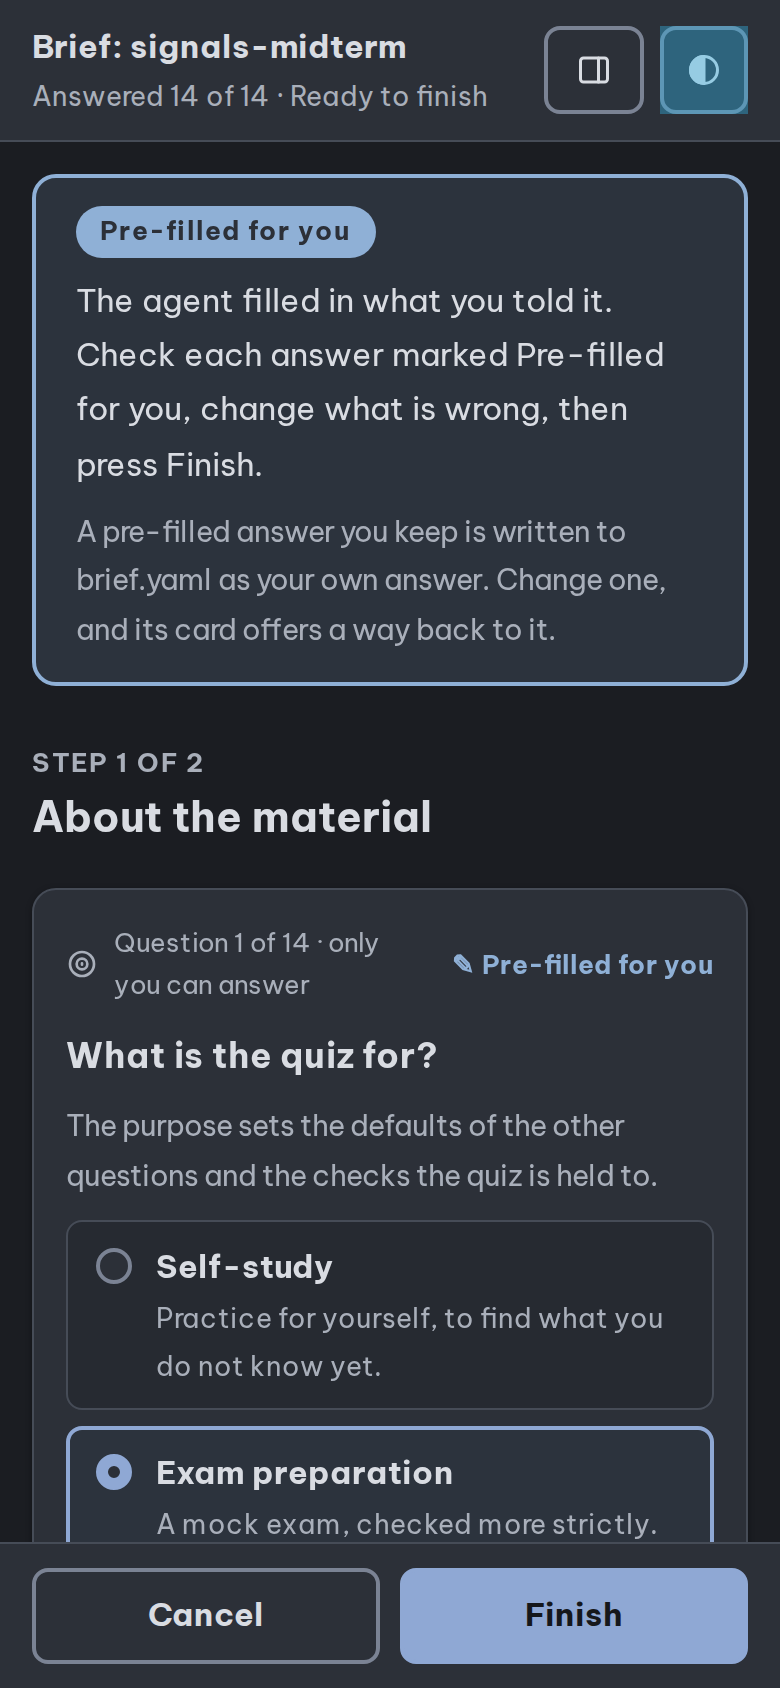
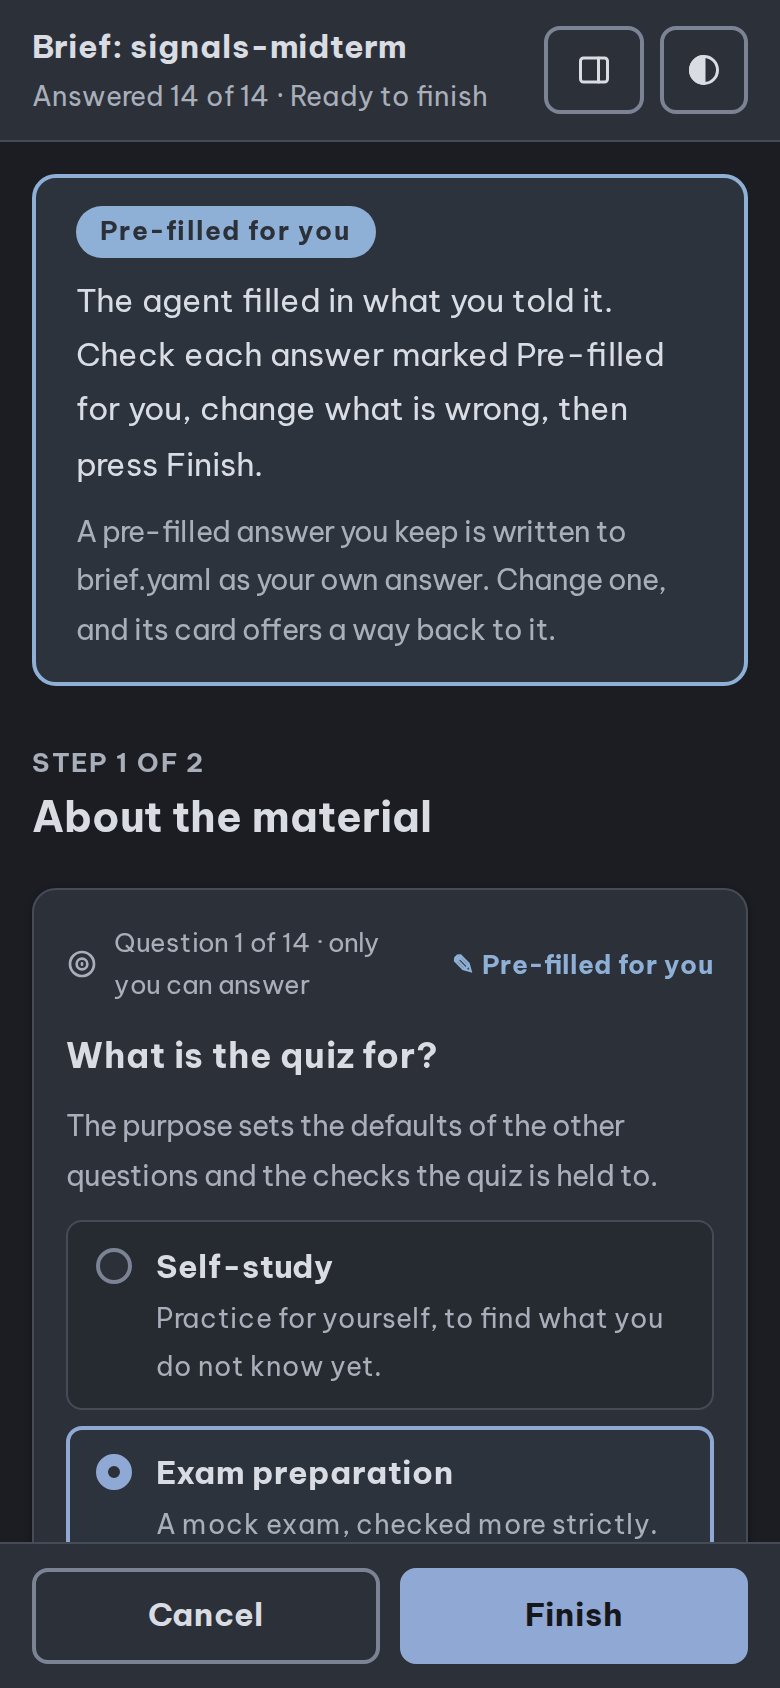
3h2 review: written; no tap highlight on the phone's buttons, four screens taken again

Changed region(s): [[0.8308, 0.0, 0.9846, 0.0924]]

diff --git a/src/brief-form/brief.css b/src/brief-form/brief.css
@@ -1224,6 +1224,11 @@
   }
 
   @media (max-width: 759px) {
+    /* as on the page: no grey or blue flash over a tapped button */
+    .bf button {
+      -webkit-tap-highlight-color: transparent;
+    }
+
     .bf-bar {
       gap: 12px;
       padding: 10px 16px;

diff --git a/docs/plans/STEP3.md b/docs/plans/STEP3.md
@@ -36,7 +36,7 @@ As in step 2 ([archive/STEP2.md](archive/STEP2.md), Handoff): the planner writes
 | 3p2 G104, G106, `--web --grades` at 1280 px (G75, G102) | done, reviewed (2026-11-15), no gaps | `a433497`..`565bd9b`, review |
 | 3p3 the pre-filled form on a phone | done, reviewed (2026-11-15), no gaps | `9014690`..`2eea084`, review |
 | 3h `brief --web` at 1280 px | done, reviewed (2026-11-16), two board changes made in review; G116 decided | `10ea547`..`74a00a6`, review |
-| 3h2 G116, `brief --web` on a phone | built (2026-11-16), to review | `fd2d50a`..`0247344`, and the commit that holds this row |
+| 3h2 G116, `brief --web` on a phone | done, reviewed (2026-11-16), one fix in review, no gaps | `fd2d50a`..`0247344`, and the commit that holds this row |
 | 3z acceptance | last | |
 
 Each slice's review, and the owner's decisions on its gaps, are under its own section below (**Review**); the open gaps are in "Gaps" below, and the decided ones in [STEP3-GAPS.md](STEP3-GAPS.md), in number order.
@@ -52,7 +52,7 @@ How each slice got here is in its own **Review**; the table above is the summary
 1. **3r** (G101, then fullmark's own marking in the form, G83) is **built and reviewed** ("Slice 3r", its Review), the result badge fixed in review. **G103 is decided** and **3r2 is built and reviewed** ("Slice 3r2", its Review). **G104** (two unnamed `main` landmarks with the frame shown) is decided (2026-11-15), as recommended, and written into COMMANDS.md; it is 3p2's first task.
 2. **3q** (the replay's answer panel and badge, G94, G105) is **built and reviewed** ("Slice 3q", its Review). **G106** (the sample answer's code block, not focusable while it scrolls) is decided (2026-11-15), as recommended, and written into TECHNICAL_DESIGN.md; it is 3p2's first task, with G104.
 3. **3p2** (G104, G106, then `grade --web --grades` at 1280 px, G75, G102, G107 to G110) is **built and reviewed** ("Slice 3p2", its Review), with no new gap. **3p3** (the pre-filled form on a phone, G111) is **built and reviewed** ("Slice 3p3", its Review), with no new gap. Next: **the `brief --web` boards** (3v), then **3h**.
-4. **The `brief --web` boards** (3v) are **approved** (2026-11-16) and copied to `docs/mockup/boards/` (Brief and its ten wrappers). **3h** is **built and reviewed** ("Slice 3h", its Review); step 3's three-way byte-identity criterion passes. **G116** (`--timeout`, `--port` and `--no-open` without `--web`) is decided (2026-11-16), as recommended, and written into COMMANDS.md. **3h2**'s brief (G116, then the phone) is approved (2026-11-16), with G117 as recommended: next, hand it to an implementing agent. Then **3z**, acceptance.
+4. **The `brief --web` boards** (3v) are **approved** (2026-11-16) and copied to `docs/mockup/boards/` (Brief and its ten wrappers). **3h** is **built and reviewed** ("Slice 3h", its Review); step 3's three-way byte-identity criterion passes. **G116** (`--timeout`, `--port` and `--no-open` without `--web`) is decided (2026-11-16), as recommended, and written into COMMANDS.md. **3h2** (G116, then the phone, G117) is **built and reviewed** ("Slice 3h2", its Review), with no new gap: every slice of step 3 but 3z is done. Then **3z**, acceptance.
 5. **3z**, acceptance.
 
 The other Grade boards (Grade, GradeBanded, GradeCode, GradePhone, GradeVi, GradeAI and the table boards) have no images: they were taken off the canvas on 2026-11-07 ([docs/mockup/README.md](../mockup/README.md)), so they cannot be exported as they stand. Their sources in `docs/mockup/boards/` are the reference; this blocks no slice.
@@ -1369,3 +1369,16 @@ Done differently, accepted in review unless the owner says otherwise: the summar
 ### Done when
 
 `npm run check` passes in Chromium and Firefox (the startup tests alone first). On a 390 px and a 360 px phone the brief form shows the compact bar and the foot bar, nothing runs off the screen, and a brief written from the phone is byte-identical with the same answers given wide or as flags. `quiz brief d --port 9` exits 2. The screens are committed. Report as the rules say, every golden and spec that changed counted and explained.
+
+### Review
+
+**3h2's review (2026-11-16).** Built by Sonnet in `fd2d50a`..`0247344` (G116; the phone; the screens), and `8e743ed` for the slice table's row and one test that passed `--no-open` without `--web`. Typecheck and Biome clean; Vitest **117 files, 2820 of 2820**, the 2 startup tests alone first; Playwright **703 passed**, 481 skipped (the by-name skips and the screens specs), none failed, **in Chromium and Firefox** (run in review). Goldens: 6 new (`brief/needs-web-{timeout,port,no-open}-{flags,tui}`), none changed. `e2e/brief-phone.spec.ts` (14 per browser): the whole form by touch and written from the foot bar's **Finish** with the same bytes as wide, a pre-fill changed and restored one by one and all at once, the blocked dialog and its link, the summary's rows, Cancel and **Copy**, the sidebar, the foot bar never over the last card, no sideways scroll at 390 and 360 px, axe in light and dark.
+
+Tried by hand: `--port 9`, `--timeout 5` (with `--json`: `{"status": "error", "message": "--timeout needs --web"}`) and `--no-open` without `--web` each exit 2 with their line and write nothing; `--tui --port 9` exits 2 on `--port` before the terminal check, as COMMANDS.md's order says. The screens (`docs/screens/3h2/`) were read against the board's `isPhone` branches: the compact bar with the sidebar icon and Appearance (G117), the foot bar, the full-screen sidebar, the summary's stacked rows, the Cancelled card at 360 px and the Vietnamese form match what the boards draw.
+
+Done differently, accepted in review unless the owner says otherwise: on a phone the restart command wraps inside a flag's value, only each flag's name kept whole (`bf-cmd-flag`), since the board's unbroken flag-and-value pieces run past a 360 px box; the dialog's `max-width` is lifted on a phone, where the browser's own capped it at 350 px; the summary's hint still says "Click a row", as the board does.
+
+**Fixed in review:** a tapped button showed the browser's blue tap highlight (seen on the sidebar button and the Sans pill in the screens); below 760 px the form's buttons now have none, as the page's have. `02-phone-sidebar`, `01b-phone-changed-card`, `08-phone-dark-appearance` and `08b-phone-dark` taken again. Retaking every screen also moved `docs/screens/3h/08-brief-cancelled.png` by sub-pixel anti-aliasing only (3h2's flag-name spans split the command's text; the wrapping and every glyph are the same); the retaken one is kept.
+
+**Found in review:** nothing new.
+
